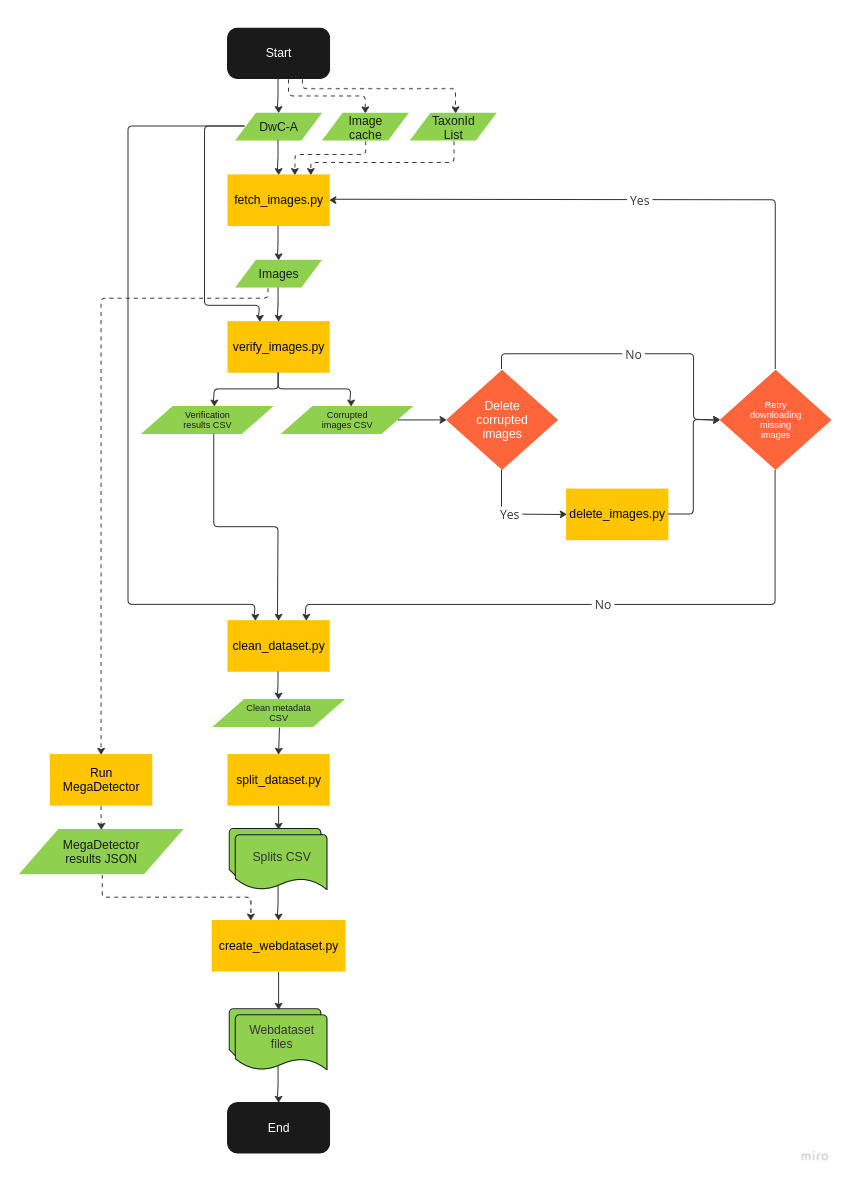
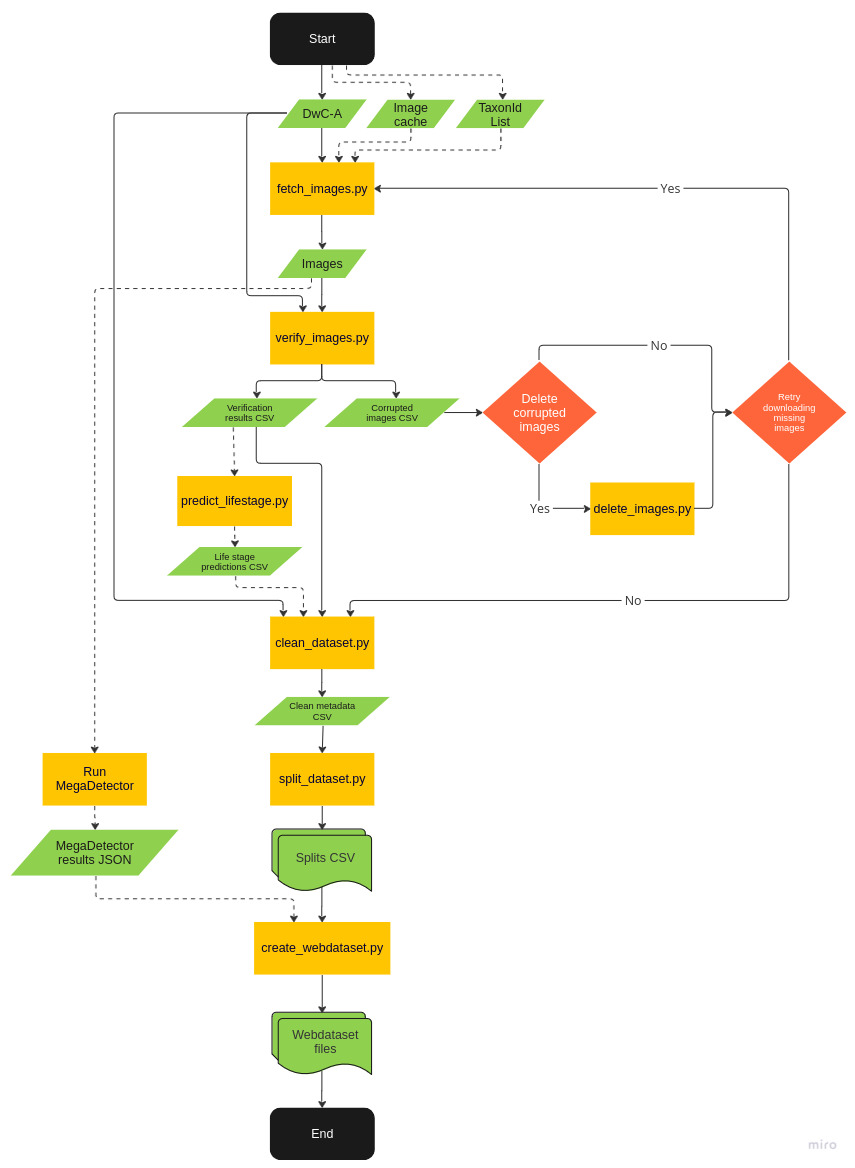
Added infor about the life stage prediction script to the readme

diff --git a/src/dataset_tools/README.md b/src/dataset_tools/README.md
@@ -11,6 +11,7 @@ Here is an overview of the scripts available in this folder:
 | `fetch_images.py`      | download images from URLs in observation metadata from a Darwin Core Archive (DwC-A) file | Yes       | Yes            |
 | `verify_images.py`     | check images for errors                                                                   | No        | Yes            |
 | `delete_images.py`     | delete a list of images                                                                   | No        | No             |
+| `predict_lifestage.py` | predict life stage for moths                                                              | No        | Yes            |
 | `clean_dataset.py`     | filter out images to ensure the quality of the training data                              | No        | No             |
 | `split_dataset.py`     | split dataset into training/validation/test sets                                          | No        | No             |
 | `create_webdataset.py` | assemble final training set in webdataset format                                          | No        | No             |
@@ -56,7 +57,7 @@ The `verify_images.py` script uses the DwC-A to verify if images were correctly 
 
 ### Cleaning and spliting the dataset
 
-The cleaning script (`clean_dataset.py`) applies a series of operations to ensure the quality of the dataset. Please refer to the `--help` flag for details. The script requires the DwC-A file and the CSV generated by the error verification script, and it produces a CSV file with all the information required to create a webdataset.
+The cleaning script (`clean_dataset.py`) applies a series of operations to ensure the quality of the dataset. Please refer to the `--help` flag for details. The script requires the DwC-A file and the CSV generated by the error verification script, and it produces a CSV file with all the information required to create a webdataset. One of the cleaning options is to remove non-adult images based on the life stage tag. However, this tag may not be available for many images. A life stage classifier can be used to generate this information (see `predict_lifestage.py`).
 
 The `split_dataset.py` script splits the CSV into train/val/test partitions. Use the options `--val-frac` and `--test-frac` to determine the amount of data to be used. Use the `--max-instances` to undersample the majority classes to a maxinum value; the default is 1000. By default, images belonging to the same occorrence will be kept on the same partition; set the `--split-by-occurrence` option to false to ignore this behavior.
 
